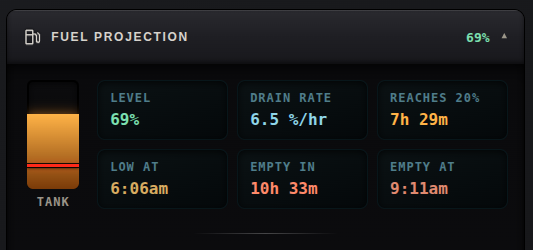
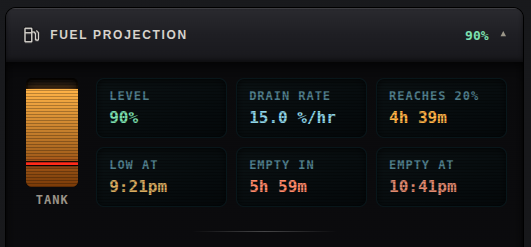
docs: refresh screenshots for the v1.3.0 UI + add a collapsed README screenshot gallery

diff --git a/README.md b/README.md
@@ -11,7 +11,7 @@
 GeneratorPi is a self-hosted, secure remote starter for the Powermate PM9400E generator. Driven by a Raspberry Pi and a relay, it exposes a responsive web UI and a REST API. Features include automated linear fuel tracking, Web Push notifications, auto-hashing user credentials, and an integrated self-updater.
 
 <p align="center">
-  <img src="https://raw.githubusercontent.com/mrchrisneal/generatorpi/main/docs/screenshots/web-ui.png" alt="GeneratorPi web UI — industrial control panel with status annunciator, hero power switch, current-run readout, total-runtime odometer, event log, and collapsible Fuel Projection and Advanced drawers" width="640">
+  <img src="https://raw.githubusercontent.com/mrchrisneal/generatorpi/main/docs/screenshots/web-ui.png" alt="GeneratorPi web UI — industrial control panel showing RUNNING status, the hero power switch, a current-run timer and total-runtime odometer, system registers, a live event log, and collapsible Fuel Projection and System modules" width="640">
 </p>
 
 > [!CAUTION]
@@ -19,6 +19,25 @@ GeneratorPi is a self-hosted, secure remote starter for the Powermate PM9400E ge
 
 > [!WARNING]
 > This software is provided **as-is**, with no warranty, and is under **active development** — expect changes, rough edges, and breaking updates. **Use caution**, test thoroughly on your own hardware, and never rely on it as your only safeguard around a running generator.
+
+<details>
+<summary><b>📸 More screenshots</b></summary>
+
+<p align="center">
+  <img src="https://raw.githubusercontent.com/mrchrisneal/generatorpi/main/docs/screenshots/fuel-projection.png" alt="Fuel Projection module — tank gauge with level, drain rate, and time-to-empty projections" width="520"><br>
+  <em>Fuel Projection — live drain-rate model with time-to-empty estimates</em>
+</p>
+<p align="center">
+  <img src="https://raw.githubusercontent.com/mrchrisneal/generatorpi/main/docs/screenshots/system-metrics.png" alt="System module — CPU/memory and load charts plus temperature and Wi-Fi link sensors" width="520"><br>
+  <em>System metrics — CPU/memory and load charts, temperature and Wi-Fi link</em>
+</p>
+<p align="center">
+  <img src="https://raw.githubusercontent.com/mrchrisneal/generatorpi/main/docs/screenshots/updater-staged.png" alt="Update modal — staged and verified, ready to apply" width="380">
+  <img src="https://raw.githubusercontent.com/mrchrisneal/generatorpi/main/docs/screenshots/updater-complete.png" alt="Update modal — update completed successfully" width="380"><br>
+  <em>One-click self-updater — verified against the manifest, then applied in place</em>
+</p>
+
+</details>
 
 ## Features
 
